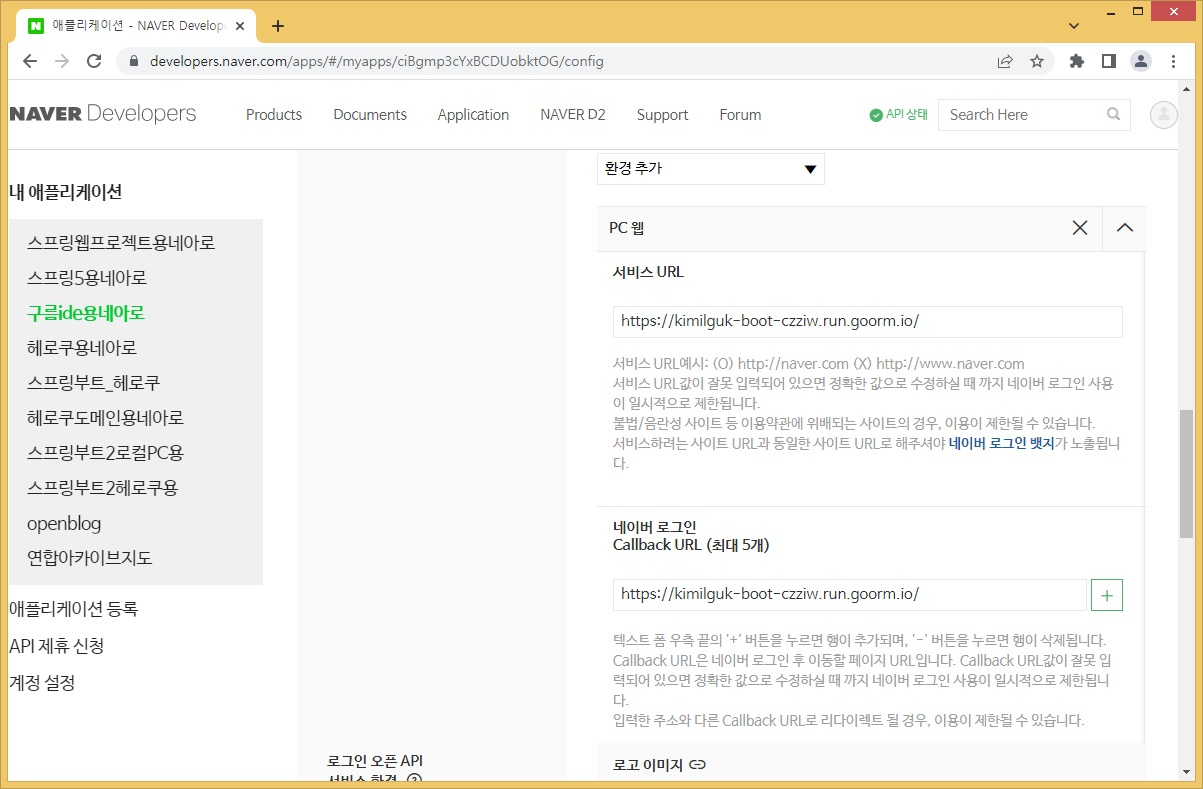
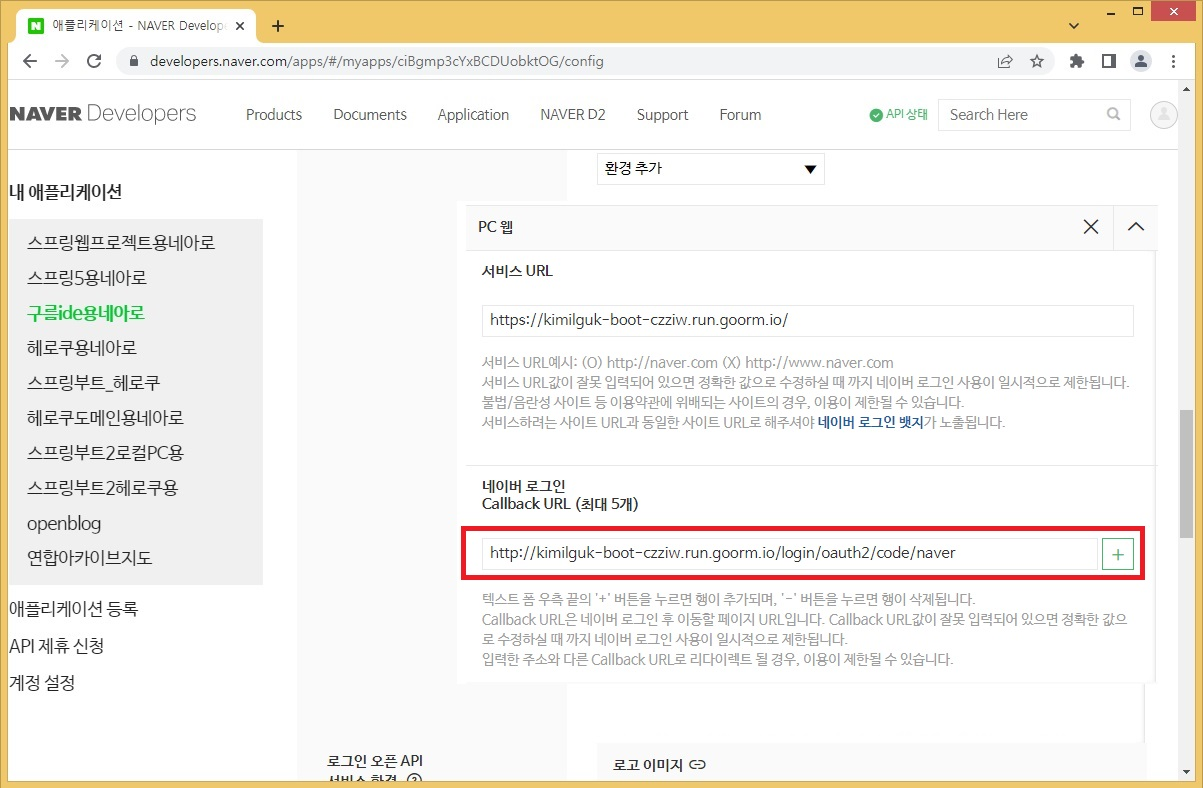
구름ide 클라우드 사용방법 설명추가

diff --git a/README.md b/README.md
@@ -89,10 +89,13 @@ source ~/.profile
 - ![그래들 빌드 실행명령 추가](./README/goorm14.jpg)
 - 결과 크롬 화면(아래)
 - ![그래들 빌드 실행명령 추가](./README/goorm15.jpg)
-- 카카오개발자센터에서도 위 도메인을 추가해서 지도를 사용할 수 있게 해준다.
+- 카카오개발자센터에서도 위 https://kimilguk-boot-czziw.run.goorm.io/ 도메인을 추가해서 지도를 사용할 수 있게 해준다.
 - ![카카오개발자센터 도메인 추가](./README/goorm16.jpg)
-- 네이버개발자센터에서도 위 도메인을 추가해서 네아로를 사용할 수 있게 해준다.
+- 네이버개발자센터에서도 위 https://kimilguk-boot-czziw.run.goorm.io/ 도메인을 추가해서 네아로를 사용할 수 있게 해준다.
 - ![네이버개발자센터 도메인 추가](./README/goorm17.jpg)
+- 위 콜백URL을 확인하는 방법.(아래)
+- 아래 크롬 console에서 new URL(document.referrer).searchParams.get("redirect_uri")
+- ![네이버개발자센터 도메인 추가](./README/goorm19.jpg)
 - 구름ide 터미널에서 ps -ef | grep java 로 자바로 실행중인 프로세스를 확인 후 삭제한다. 컨테이너 나가기 후 다시 들어온다.
 - kill 프로세스번호 로 삭제 후 확인을 위해 build/libs폴더의 jar를 지우고 아래 노란색 버튼으로 재실행 한다.(아래)
 - ![네이버개발자센터 도메인 추가](./README/goorm18.jpg)
